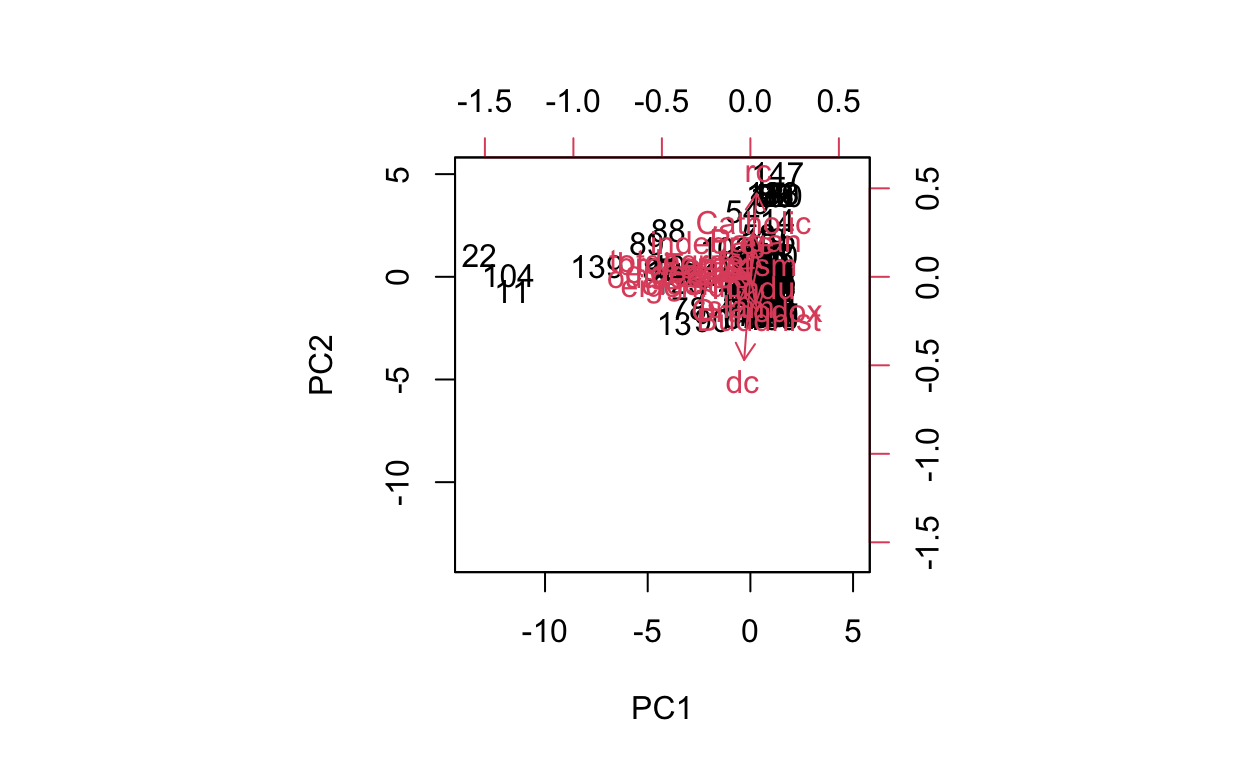
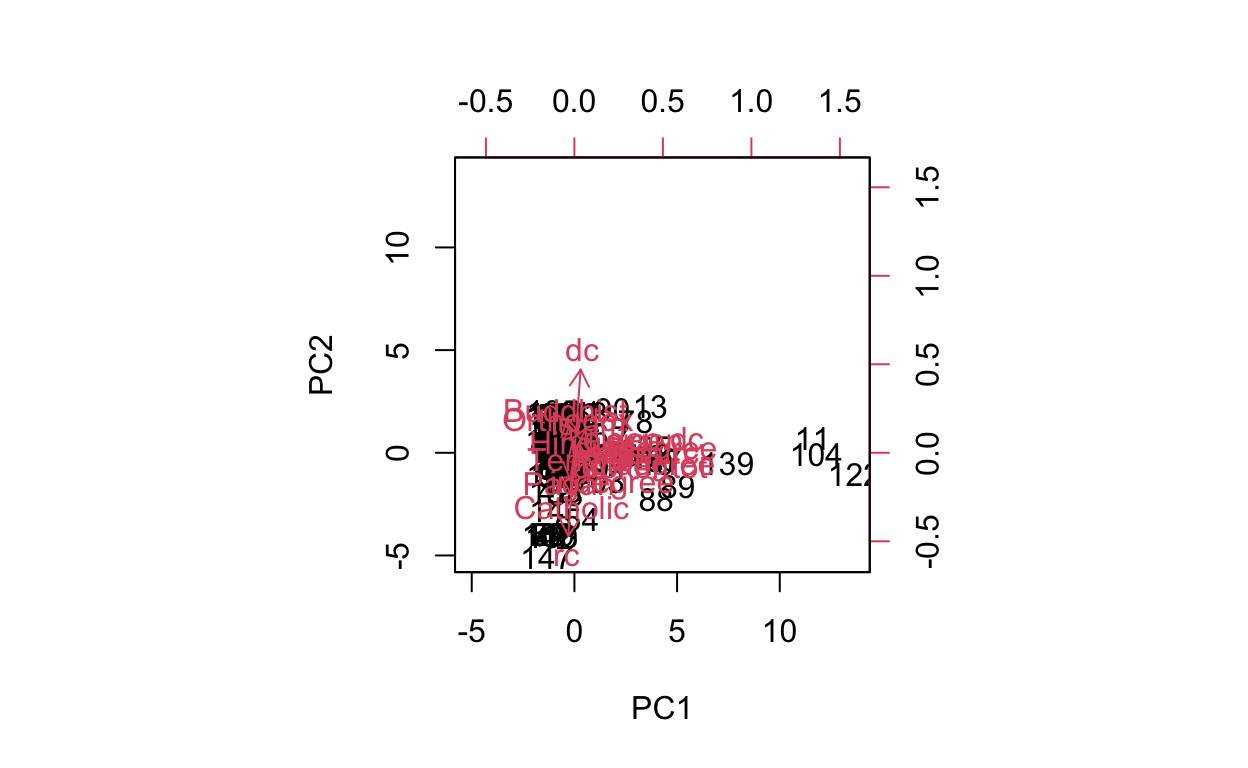
ok

diff --git a/_posts/2022-03-29-blog-post-7-networks/blog-post-7-networks.html b/_posts/2022-03-29-blog-post-7-networks/blog-post-7-networks.html
@@ -117,7 +117,7 @@ code span.wa { color: #5e5e5e; font-style: italic; } /* Warning */
   <!--/radix_placeholder_rmarkdown_metadata-->
   
   <script type="text/json" id="radix-resource-manifest">
-  {"type":"character","attributes":{},"value":["blog-post-7-networks_files/anchor-4.2.2/anchor.min.js","blog-post-7-networks_files/bowser-1.9.3/bowser.min.js","blog-post-7-networks_files/distill-2.2.21/template.v2.js","blog-post-7-networks_files/figure-html5/unnamed-chunk-107-1.png","blog-post-7-networks_files/figure-html5/unnamed-chunk-108-1.png","blog-post-7-networks_files/figure-html5/unnamed-chunk-112-1.png","blog-post-7-networks_files/figure-html5/unnamed-chunk-18-1.png","blog-post-7-networks_files/figure-html5/unnamed-chunk-19-1.png","blog-post-7-networks_files/figure-html5/unnamed-chunk-20-1.png","blog-post-7-networks_files/figure-html5/unnamed-chunk-27-1.png","blog-post-7-networks_files/figure-html5/unnamed-chunk-28-1.png","blog-post-7-networks_files/figure-html5/unnamed-chunk-29-1.png","blog-post-7-networks_files/figure-html5/unnamed-chunk-30-1.png","blog-post-7-networks_files/figure-html5/unnamed-chunk-32-1.png","blog-post-7-networks_files/figure-html5/unnamed-chunk-33-1.png","blog-post-7-networks_files/figure-html5/unnamed-chunk-34-1.png","blog-post-7-networks_files/figure-html5/unnamed-chunk-35-1.png","blog-post-7-networks_files/figure-html5/unnamed-chunk-36-1.png","blog-post-7-networks_files/figure-html5/unnamed-chunk-37-1.png","blog-post-7-networks_files/figure-html5/unnamed-chunk-38-1.png","blog-post-7-networks_files/figure-html5/unnamed-chunk-39-1.png","blog-post-7-networks_files/figure-html5/unnamed-chunk-40-1.png","blog-post-7-networks_files/figure-html5/unnamed-chunk-42-1.png","blog-post-7-networks_files/figure-html5/unnamed-chunk-43-1.png","blog-post-7-networks_files/figure-html5/unnamed-chunk-44-1.png","blog-post-7-networks_files/figure-html5/unnamed-chunk-45-1.png","blog-post-7-networks_files/figure-html5/unnamed-chunk-46-1.png","blog-post-7-networks_files/figure-html5/unnamed-chunk-47-1.png","blog-post-7-networks_files/figure-html5/unnamed-chunk-49-1.png","blog-post-7-networks_files/figure-html5/unnamed-chunk-50-1.png","blog-post-7-networks_files/figure-html5/unnamed-chunk-52-1.png","blog-post-7-networks_files/figure-html5/unnamed-chunk-53-1.png","blog-post-7-networks_files/figure-html5/unnamed-chunk-54-1.png","blog-post-7-networks_files/figure-html5/unnamed-chunk-65-1.png","blog-post-7-networks_files/figure-html5/unnamed-chunk-70-1.png","blog-post-7-networks_files/figure-html5/unnamed-chunk-71-1.png","blog-post-7-networks_files/figure-html5/unnamed-chunk-77-1.png","blog-post-7-networks_files/figure-html5/unnamed-chunk-80-1.png","blog-post-7-networks_files/figure-html5/unnamed-chunk-88-1.png","blog-post-7-networks_files/figure-html5/unnamed-chunk-89-1.png","blog-post-7-networks_files/figure-html5/unnamed-chunk-93-1.png","blog-post-7-networks_files/header-attrs-2.13/header-attrs.js","blog-post-7-networks_files/jquery-3.6.0/jquery-3.6.0.js","blog-post-7-networks_files/jquery-3.6.0/jquery-3.6.0.min.js","blog-post-7-networks_files/jquery-3.6.0/jquery-3.6.0.min.map","blog-post-7-networks_files/popper-2.6.0/popper.min.js","blog-post-7-networks_files/tippy-6.2.7/tippy-bundle.umd.min.js","blog-post-7-networks_files/tippy-6.2.7/tippy-light-border.css","blog-post-7-networks_files/tippy-6.2.7/tippy.css","blog-post-7-networks_files/tippy-6.2.7/tippy.umd.min.js","blog-post-7-networks_files/webcomponents-2.0.0/webcomponents.js"]}
+  {"type":"character","attributes":{},"value":["blog-post-7-networks_files/anchor-4.2.2/anchor.min.js","blog-post-7-networks_files/bowser-1.9.3/bowser.min.js","blog-post-7-networks_files/distill-2.2.21/template.v2.js","blog-post-7-networks_files/figure-html5/unnamed-chunk-107-1.png","blog-post-7-networks_files/figure-html5/unnamed-chunk-108-1.png","blog-post-7-networks_files/figure-html5/unnamed-chunk-109-1.png","blog-post-7-networks_files/figure-html5/unnamed-chunk-110-1.png","blog-post-7-networks_files/figure-html5/unnamed-chunk-112-1.png","blog-post-7-networks_files/figure-html5/unnamed-chunk-114-1.png","blog-post-7-networks_files/figure-html5/unnamed-chunk-18-1.png","blog-post-7-networks_files/figure-html5/unnamed-chunk-19-1.png","blog-post-7-networks_files/figure-html5/unnamed-chunk-20-1.png","blog-post-7-networks_files/figure-html5/unnamed-chunk-27-1.png","blog-post-7-networks_files/figure-html5/unnamed-chunk-28-1.png","blog-post-7-networks_files/figure-html5/unnamed-chunk-29-1.png","blog-post-7-networks_files/figure-html5/unnamed-chunk-30-1.png","blog-post-7-networks_files/figure-html5/unnamed-chunk-32-1.png","blog-post-7-networks_files/figure-html5/unnamed-chunk-33-1.png","blog-post-7-networks_files/figure-html5/unnamed-chunk-34-1.png","blog-post-7-networks_files/figure-html5/unnamed-chunk-35-1.png","blog-post-7-networks_files/figure-html5/unnamed-chunk-36-1.png","blog-post-7-networks_files/figure-html5/unnamed-chunk-37-1.png","blog-post-7-networks_files/figure-html5/unnamed-chunk-38-1.png","blog-post-7-networks_files/figure-html5/unnamed-chunk-39-1.png","blog-post-7-networks_files/figure-html5/unnamed-chunk-40-1.png","blog-post-7-networks_files/figure-html5/unnamed-chunk-42-1.png","blog-post-7-networks_files/figure-html5/unnamed-chunk-43-1.png","blog-post-7-networks_files/figure-html5/unnamed-chunk-44-1.png","blog-post-7-networks_files/figure-html5/unnamed-chunk-45-1.png","blog-post-7-networks_files/figure-html5/unnamed-chunk-46-1.png","blog-post-7-networks_files/figure-html5/unnamed-chunk-47-1.png","blog-post-7-networks_files/figure-html5/unnamed-chunk-49-1.png","blog-post-7-networks_files/figure-html5/unnamed-chunk-50-1.png","blog-post-7-networks_files/figure-html5/unnamed-chunk-52-1.png","blog-post-7-networks_files/figure-html5/unnamed-chunk-53-1.png","blog-post-7-networks_files/figure-html5/unnamed-chunk-54-1.png","blog-post-7-networks_files/figure-html5/unnamed-chunk-65-1.png","blog-post-7-networks_files/figure-html5/unnamed-chunk-70-1.png","blog-post-7-networks_files/figure-html5/unnamed-chunk-71-1.png","blog-post-7-networks_files/figure-html5/unnamed-chunk-77-1.png","blog-post-7-networks_files/figure-html5/unnamed-chunk-80-1.png","blog-post-7-networks_files/figure-html5/unnamed-chunk-88-1.png","blog-post-7-networks_files/figure-html5/unnamed-chunk-89-1.png","blog-post-7-networks_files/figure-html5/unnamed-chunk-90-1.png","blog-post-7-networks_files/figure-html5/unnamed-chunk-93-1.png","blog-post-7-networks_files/figure-html5/unnamed-chunk-94-1.png","blog-post-7-networks_files/header-attrs-2.13/header-attrs.js","blog-post-7-networks_files/jquery-3.6.0/jquery-3.6.0.js","blog-post-7-networks_files/jquery-3.6.0/jquery-3.6.0.min.js","blog-post-7-networks_files/jquery-3.6.0/jquery-3.6.0.min.map","blog-post-7-networks_files/popper-2.6.0/popper.min.js","blog-post-7-networks_files/tippy-6.2.7/tippy-bundle.umd.min.js","blog-post-7-networks_files/tippy-6.2.7/tippy-light-border.css","blog-post-7-networks_files/tippy-6.2.7/tippy.css","blog-post-7-networks_files/tippy-6.2.7/tippy.umd.min.js","blog-post-7-networks_files/webcomponents-2.0.0/webcomponents.js","images/C6569E05-82CC-4F93-B1E5-1A9DC2801E8E_4_5005_c.jpeg"]}
   </script>
   <!--radix_placeholder_navigation_in_header-->
   <!--/radix_placeholder_navigation_in_header-->
@@ -2924,6 +2924,15 @@ Learning, Regression and Principle Components:</h3>
 </div>
 <div class="layout-chunk" data-layout="l-body">
 <div class="sourceCode">
+<pre class="sourceCode r"><code class="sourceCode r"><span class='fu'><a href='https://rdrr.io/r/base/Random.html'>set.seed</a></span><span class='op'>(</span><span class='fl'>172</span><span class='op'>)</span>
+
+<span class='fu'>ggbiplot</span><span class='op'>(</span><span class='va'>pr.out</span>, labels <span class='op'>=</span>  <span class='va'>total_1000s_for_PCA</span><span class='op'>$</span><span class='va'>name</span>, labels.size  <span class='op'>=</span><span class='fl'>1.5</span><span class='op'>)</span>
+</code></pre>
+</div>
+<p><img src="blog-post-7-networks_files/figure-html5/unnamed-chunk-89-1.png" width="624" /></p>
+</div>
+<div class="layout-chunk" data-layout="l-body">
+<div class="sourceCode">
 <pre class="sourceCode r"><code class="sourceCode r"><span class='va'>pr.out</span><span class='op'>$</span><span class='va'>rotation</span> <span class='op'>=</span> <span class='op'>-</span><span class='va'>pr.out</span><span class='op'>$</span><span class='va'>rotation</span> 
 
 <span class='va'>pr.out</span><span class='op'>$</span><span class='va'>x</span> <span class='op'>=</span> <span class='op'>-</span><span class='va'>pr.out</span><span class='op'>$</span><span class='va'>x</span>
@@ -2931,7 +2940,7 @@ Learning, Regression and Principle Components:</h3>
 <span class='fu'><a href='https://rdrr.io/r/stats/biplot.html'>biplot</a></span><span class='op'>(</span><span class='va'>pr.out</span>, scale <span class='op'>=</span> <span class='fl'>0</span><span class='op'>)</span>
 </code></pre>
 </div>
-<p><img src="blog-post-7-networks_files/figure-html5/unnamed-chunk-89-1.png" width="624" /></p>
+<p><img src="blog-post-7-networks_files/figure-html5/unnamed-chunk-90-1.png" width="624" /></p>
 </div>
 <div class="layout-chunk" data-layout="l-body">
 <div class="sourceCode">
@@ -2978,7 +2987,7 @@ type <span class='op'>=</span> <span class='st'>"b"</span><span class='op'>)</sp
 ylab <span class='op'>=</span> <span class='st'>"Cumulative Proportion of Variance Explained"</span>, ylim <span class='op'>=</span> <span class='fu'><a href='https://rdrr.io/r/base/c.html'>c</a></span><span class='op'>(</span><span class='fl'>0</span>, <span class='fl'>1</span><span class='op'>)</span>, type <span class='op'>=</span> <span class='st'>"b"</span><span class='op'>)</span>
 </code></pre>
 </div>
-<p><img src="blog-post-7-networks_files/figure-html5/unnamed-chunk-93-1.png" width="624" /></p>
+<p><img src="blog-post-7-networks_files/figure-html5/unnamed-chunk-94-1.png" width="624" /></p>
 </div>
 <div class="layout-chunk" data-layout="l-body">
 <div class="sourceCode">
@@ -3106,7 +3115,7 @@ ylab <span class='op'>=</span> <span class='st'>"Cumulative Proportion of Varian
 <pre class="sourceCode r"><code class="sourceCode r"><span class='fu'><a href='https://rdrr.io/r/stats/biplot.html'>biplot</a></span><span class='op'>(</span><span class='va'>pr.out_2</span>, scale <span class='op'>=</span> <span class='fl'>0</span><span class='op'>)</span>
 </code></pre>
 </div>
-<p><img src="blog-post-7-networks_files/figure-html5/unnamed-chunk-107-1.png" width="624" /></p>
+<p><img src="blog-post-7-networks_files/figure-html5/unnamed-chunk-108-1.png" width="624" /></p>
 </div>
 <div class="layout-chunk" data-layout="l-body">
 <div class="sourceCode">
@@ -3117,7 +3126,16 @@ ylab <span class='op'>=</span> <span class='st'>"Cumulative Proportion of Varian
 <span class='fu'><a href='https://rdrr.io/r/stats/biplot.html'>biplot</a></span><span class='op'>(</span><span class='va'>pr.out_2</span>, scale <span class='op'>=</span> <span class='fl'>0</span><span class='op'>)</span>
 </code></pre>
 </div>
-<p><img src="blog-post-7-networks_files/figure-html5/unnamed-chunk-108-1.png" width="624" /></p>
+<p><img src="blog-post-7-networks_files/figure-html5/unnamed-chunk-109-1.png" width="624" /></p>
+</div>
+<div class="layout-chunk" data-layout="l-body">
+<div class="sourceCode">
+<pre class="sourceCode r"><code class="sourceCode r"><span class='fu'><a href='https://rdrr.io/r/base/Random.html'>set.seed</a></span><span class='op'>(</span><span class='fl'>8192</span><span class='op'>)</span>
+
+<span class='fu'>ggbiplot</span><span class='op'>(</span><span class='va'>pr.out_2</span>, labels <span class='op'>=</span>  <span class='va'>total_1200s_for_PCA</span><span class='op'>$</span><span class='va'>name</span>, labels.size  <span class='op'>=</span><span class='fl'>1.5</span><span class='op'>)</span>
+</code></pre>
+</div>
+<p><img src="blog-post-7-networks_files/figure-html5/unnamed-chunk-110-1.png" width="624" /></p>
 </div>
 <div class="layout-chunk" data-layout="l-body">
 <div class="sourceCode">
@@ -3164,7 +3182,7 @@ type <span class='op'>=</span> <span class='st'>"b"</span><span class='op'>)</sp
 ylab <span class='op'>=</span> <span class='st'>"Cumulative Proportion of Variance Explained"</span>, ylim <span class='op'>=</span> <span class='fu'><a href='https://rdrr.io/r/base/c.html'>c</a></span><span class='op'>(</span><span class='fl'>0</span>, <span class='fl'>1</span><span class='op'>)</span>, type <span class='op'>=</span> <span class='st'>"b"</span><span class='op'>)</span>
 </code></pre>
 </div>
-<p><img src="blog-post-7-networks_files/figure-html5/unnamed-chunk-112-1.png" width="624" /></p>
+<p><img src="blog-post-7-networks_files/figure-html5/unnamed-chunk-114-1.png" width="624" /></p>
 </div>
 <p>(information regarding the meaning of each type of brokerage was
 acquired from <a href="https://edis.ifas.ufl.edu/publication/WC197"

diff --git a/docs/posts/2022-03-29-blog-post-7-networks/index.html b/docs/posts/2022-03-29-blog-post-7-networks/index.html
@@ -118,7 +118,7 @@ code span.wa { color: #5e5e5e; font-style: italic; } /* Warning */
 <!--/radix_placeholder_rmarkdown_metadata-->
   
   <script type="text/json" id="radix-resource-manifest">
-  {"type":"character","attributes":{},"value":["blog-post-7-networks_files/anchor-4.2.2/anchor.min.js","blog-post-7-networks_files/bowser-1.9.3/bowser.min.js","blog-post-7-networks_files/distill-2.2.21/template.v2.js","blog-post-7-networks_files/figure-html5/unnamed-chunk-107-1.png","blog-post-7-networks_files/figure-html5/unnamed-chunk-108-1.png","blog-post-7-networks_files/figure-html5/unnamed-chunk-112-1.png","blog-post-7-networks_files/figure-html5/unnamed-chunk-18-1.png","blog-post-7-networks_files/figure-html5/unnamed-chunk-19-1.png","blog-post-7-networks_files/figure-html5/unnamed-chunk-20-1.png","blog-post-7-networks_files/figure-html5/unnamed-chunk-27-1.png","blog-post-7-networks_files/figure-html5/unnamed-chunk-28-1.png","blog-post-7-networks_files/figure-html5/unnamed-chunk-29-1.png","blog-post-7-networks_files/figure-html5/unnamed-chunk-30-1.png","blog-post-7-networks_files/figure-html5/unnamed-chunk-32-1.png","blog-post-7-networks_files/figure-html5/unnamed-chunk-33-1.png","blog-post-7-networks_files/figure-html5/unnamed-chunk-34-1.png","blog-post-7-networks_files/figure-html5/unnamed-chunk-35-1.png","blog-post-7-networks_files/figure-html5/unnamed-chunk-36-1.png","blog-post-7-networks_files/figure-html5/unnamed-chunk-37-1.png","blog-post-7-networks_files/figure-html5/unnamed-chunk-38-1.png","blog-post-7-networks_files/figure-html5/unnamed-chunk-39-1.png","blog-post-7-networks_files/figure-html5/unnamed-chunk-40-1.png","blog-post-7-networks_files/figure-html5/unnamed-chunk-42-1.png","blog-post-7-networks_files/figure-html5/unnamed-chunk-43-1.png","blog-post-7-networks_files/figure-html5/unnamed-chunk-44-1.png","blog-post-7-networks_files/figure-html5/unnamed-chunk-45-1.png","blog-post-7-networks_files/figure-html5/unnamed-chunk-46-1.png","blog-post-7-networks_files/figure-html5/unnamed-chunk-47-1.png","blog-post-7-networks_files/figure-html5/unnamed-chunk-49-1.png","blog-post-7-networks_files/figure-html5/unnamed-chunk-50-1.png","blog-post-7-networks_files/figure-html5/unnamed-chunk-52-1.png","blog-post-7-networks_files/figure-html5/unnamed-chunk-53-1.png","blog-post-7-networks_files/figure-html5/unnamed-chunk-54-1.png","blog-post-7-networks_files/figure-html5/unnamed-chunk-65-1.png","blog-post-7-networks_files/figure-html5/unnamed-chunk-70-1.png","blog-post-7-networks_files/figure-html5/unnamed-chunk-71-1.png","blog-post-7-networks_files/figure-html5/unnamed-chunk-77-1.png","blog-post-7-networks_files/figure-html5/unnamed-chunk-80-1.png","blog-post-7-networks_files/figure-html5/unnamed-chunk-88-1.png","blog-post-7-networks_files/figure-html5/unnamed-chunk-89-1.png","blog-post-7-networks_files/figure-html5/unnamed-chunk-93-1.png","blog-post-7-networks_files/header-attrs-2.13/header-attrs.js","blog-post-7-networks_files/jquery-3.6.0/jquery-3.6.0.js","blog-post-7-networks_files/jquery-3.6.0/jquery-3.6.0.min.js","blog-post-7-networks_files/jquery-3.6.0/jquery-3.6.0.min.map","blog-post-7-networks_files/popper-2.6.0/popper.min.js","blog-post-7-networks_files/tippy-6.2.7/tippy-bundle.umd.min.js","blog-post-7-networks_files/tippy-6.2.7/tippy-light-border.css","blog-post-7-networks_files/tippy-6.2.7/tippy.css","blog-post-7-networks_files/tippy-6.2.7/tippy.umd.min.js","blog-post-7-networks_files/webcomponents-2.0.0/webcomponents.js"]}
+  {"type":"character","attributes":{},"value":["blog-post-7-networks_files/anchor-4.2.2/anchor.min.js","blog-post-7-networks_files/bowser-1.9.3/bowser.min.js","blog-post-7-networks_files/distill-2.2.21/template.v2.js","blog-post-7-networks_files/figure-html5/unnamed-chunk-107-1.png","blog-post-7-networks_files/figure-html5/unnamed-chunk-108-1.png","blog-post-7-networks_files/figure-html5/unnamed-chunk-109-1.png","blog-post-7-networks_files/figure-html5/unnamed-chunk-110-1.png","blog-post-7-networks_files/figure-html5/unnamed-chunk-112-1.png","blog-post-7-networks_files/figure-html5/unnamed-chunk-114-1.png","blog-post-7-networks_files/figure-html5/unnamed-chunk-18-1.png","blog-post-7-networks_files/figure-html5/unnamed-chunk-19-1.png","blog-post-7-networks_files/figure-html5/unnamed-chunk-20-1.png","blog-post-7-networks_files/figure-html5/unnamed-chunk-27-1.png","blog-post-7-networks_files/figure-html5/unnamed-chunk-28-1.png","blog-post-7-networks_files/figure-html5/unnamed-chunk-29-1.png","blog-post-7-networks_files/figure-html5/unnamed-chunk-30-1.png","blog-post-7-networks_files/figure-html5/unnamed-chunk-32-1.png","blog-post-7-networks_files/figure-html5/unnamed-chunk-33-1.png","blog-post-7-networks_files/figure-html5/unnamed-chunk-34-1.png","blog-post-7-networks_files/figure-html5/unnamed-chunk-35-1.png","blog-post-7-networks_files/figure-html5/unnamed-chunk-36-1.png","blog-post-7-networks_files/figure-html5/unnamed-chunk-37-1.png","blog-post-7-networks_files/figure-html5/unnamed-chunk-38-1.png","blog-post-7-networks_files/figure-html5/unnamed-chunk-39-1.png","blog-post-7-networks_files/figure-html5/unnamed-chunk-40-1.png","blog-post-7-networks_files/figure-html5/unnamed-chunk-42-1.png","blog-post-7-networks_files/figure-html5/unnamed-chunk-43-1.png","blog-post-7-networks_files/figure-html5/unnamed-chunk-44-1.png","blog-post-7-networks_files/figure-html5/unnamed-chunk-45-1.png","blog-post-7-networks_files/figure-html5/unnamed-chunk-46-1.png","blog-post-7-networks_files/figure-html5/unnamed-chunk-47-1.png","blog-post-7-networks_files/figure-html5/unnamed-chunk-49-1.png","blog-post-7-networks_files/figure-html5/unnamed-chunk-50-1.png","blog-post-7-networks_files/figure-html5/unnamed-chunk-52-1.png","blog-post-7-networks_files/figure-html5/unnamed-chunk-53-1.png","blog-post-7-networks_files/figure-html5/unnamed-chunk-54-1.png","blog-post-7-networks_files/figure-html5/unnamed-chunk-65-1.png","blog-post-7-networks_files/figure-html5/unnamed-chunk-70-1.png","blog-post-7-networks_files/figure-html5/unnamed-chunk-71-1.png","blog-post-7-networks_files/figure-html5/unnamed-chunk-77-1.png","blog-post-7-networks_files/figure-html5/unnamed-chunk-80-1.png","blog-post-7-networks_files/figure-html5/unnamed-chunk-88-1.png","blog-post-7-networks_files/figure-html5/unnamed-chunk-89-1.png","blog-post-7-networks_files/figure-html5/unnamed-chunk-90-1.png","blog-post-7-networks_files/figure-html5/unnamed-chunk-93-1.png","blog-post-7-networks_files/figure-html5/unnamed-chunk-94-1.png","blog-post-7-networks_files/header-attrs-2.13/header-attrs.js","blog-post-7-networks_files/jquery-3.6.0/jquery-3.6.0.js","blog-post-7-networks_files/jquery-3.6.0/jquery-3.6.0.min.js","blog-post-7-networks_files/jquery-3.6.0/jquery-3.6.0.min.map","blog-post-7-networks_files/popper-2.6.0/popper.min.js","blog-post-7-networks_files/tippy-6.2.7/tippy-bundle.umd.min.js","blog-post-7-networks_files/tippy-6.2.7/tippy-light-border.css","blog-post-7-networks_files/tippy-6.2.7/tippy.css","blog-post-7-networks_files/tippy-6.2.7/tippy.umd.min.js","blog-post-7-networks_files/webcomponents-2.0.0/webcomponents.js","images/C6569E05-82CC-4F93-B1E5-1A9DC2801E8E_4_5005_c.jpeg"]}
   </script>
   <!--radix_placeholder_navigation_in_header-->
 <meta name="distill:offset" content="../.."/>
@@ -3544,6 +3544,15 @@ Learning, Regression and Principle Components:</h3>
 </div>
 <div class="layout-chunk" data-layout="l-body">
 <div class="sourceCode">
+<pre class="sourceCode r"><code class="sourceCode r"><span class='fu'><a href='https://rdrr.io/r/base/Random.html'>set.seed</a></span><span class='op'>(</span><span class='fl'>172</span><span class='op'>)</span>
+
+<span class='fu'>ggbiplot</span><span class='op'>(</span><span class='va'>pr.out</span>, labels <span class='op'>=</span>  <span class='va'>total_1000s_for_PCA</span><span class='op'>$</span><span class='va'>name</span>, labels.size  <span class='op'>=</span><span class='fl'>1.5</span><span class='op'>)</span>
+</code></pre>
+</div>
+<p><img src="blog-post-7-networks_files/figure-html5/unnamed-chunk-89-1.png" width="624" /></p>
+</div>
+<div class="layout-chunk" data-layout="l-body">
+<div class="sourceCode">
 <pre class="sourceCode r"><code class="sourceCode r"><span class='va'>pr.out</span><span class='op'>$</span><span class='va'>rotation</span> <span class='op'>=</span> <span class='op'>-</span><span class='va'>pr.out</span><span class='op'>$</span><span class='va'>rotation</span> 
 
 <span class='va'>pr.out</span><span class='op'>$</span><span class='va'>x</span> <span class='op'>=</span> <span class='op'>-</span><span class='va'>pr.out</span><span class='op'>$</span><span class='va'>x</span>
@@ -3551,7 +3560,7 @@ Learning, Regression and Principle Components:</h3>
 <span class='fu'><a href='https://rdrr.io/r/stats/biplot.html'>biplot</a></span><span class='op'>(</span><span class='va'>pr.out</span>, scale <span class='op'>=</span> <span class='fl'>0</span><span class='op'>)</span>
 </code></pre>
 </div>
-<p><img src="blog-post-7-networks_files/figure-html5/unnamed-chunk-89-1.png" width="624" /></p>
+<p><img src="blog-post-7-networks_files/figure-html5/unnamed-chunk-90-1.png" width="624" /></p>
 </div>
 <div class="layout-chunk" data-layout="l-body">
 <div class="sourceCode">
@@ -3598,7 +3607,7 @@ type <span class='op'>=</span> <span class='st'>"b"</span><span class='op'>)</sp
 ylab <span class='op'>=</span> <span class='st'>"Cumulative Proportion of Variance Explained"</span>, ylim <span class='op'>=</span> <span class='fu'><a href='https://rdrr.io/r/base/c.html'>c</a></span><span class='op'>(</span><span class='fl'>0</span>, <span class='fl'>1</span><span class='op'>)</span>, type <span class='op'>=</span> <span class='st'>"b"</span><span class='op'>)</span>
 </code></pre>
 </div>
-<p><img src="blog-post-7-networks_files/figure-html5/unnamed-chunk-93-1.png" width="624" /></p>
+<p><img src="blog-post-7-networks_files/figure-html5/unnamed-chunk-94-1.png" width="624" /></p>
 </div>
 <div class="layout-chunk" data-layout="l-body">
 <div class="sourceCode">
@@ -3726,7 +3735,7 @@ ylab <span class='op'>=</span> <span class='st'>"Cumulative Proportion of Varian
 <pre class="sourceCode r"><code class="sourceCode r"><span class='fu'><a href='https://rdrr.io/r/stats/biplot.html'>biplot</a></span><span class='op'>(</span><span class='va'>pr.out_2</span>, scale <span class='op'>=</span> <span class='fl'>0</span><span class='op'>)</span>
 </code></pre>
 </div>
-<p><img src="blog-post-7-networks_files/figure-html5/unnamed-chunk-107-1.png" width="624" /></p>
+<p><img src="blog-post-7-networks_files/figure-html5/unnamed-chunk-108-1.png" width="624" /></p>
 </div>
 <div class="layout-chunk" data-layout="l-body">
 <div class="sourceCode">
@@ -3737,7 +3746,16 @@ ylab <span class='op'>=</span> <span class='st'>"Cumulative Proportion of Varian
 <span class='fu'><a href='https://rdrr.io/r/stats/biplot.html'>biplot</a></span><span class='op'>(</span><span class='va'>pr.out_2</span>, scale <span class='op'>=</span> <span class='fl'>0</span><span class='op'>)</span>
 </code></pre>
 </div>
-<p><img src="blog-post-7-networks_files/figure-html5/unnamed-chunk-108-1.png" width="624" /></p>
+<p><img src="blog-post-7-networks_files/figure-html5/unnamed-chunk-109-1.png" width="624" /></p>
+</div>
+<div class="layout-chunk" data-layout="l-body">
+<div class="sourceCode">
+<pre class="sourceCode r"><code class="sourceCode r"><span class='fu'><a href='https://rdrr.io/r/base/Random.html'>set.seed</a></span><span class='op'>(</span><span class='fl'>8192</span><span class='op'>)</span>
+
+<span class='fu'>ggbiplot</span><span class='op'>(</span><span class='va'>pr.out_2</span>, labels <span class='op'>=</span>  <span class='va'>total_1200s_for_PCA</span><span class='op'>$</span><span class='va'>name</span>, labels.size  <span class='op'>=</span><span class='fl'>1.5</span><span class='op'>)</span>
+</code></pre>
+</div>
+<p><img src="blog-post-7-networks_files/figure-html5/unnamed-chunk-110-1.png" width="624" /></p>
 </div>
 <div class="layout-chunk" data-layout="l-body">
 <div class="sourceCode">
@@ -3784,7 +3802,7 @@ type <span class='op'>=</span> <span class='st'>"b"</span><span class='op'>)</sp
 ylab <span class='op'>=</span> <span class='st'>"Cumulative Proportion of Variance Explained"</span>, ylim <span class='op'>=</span> <span class='fu'><a href='https://rdrr.io/r/base/c.html'>c</a></span><span class='op'>(</span><span class='fl'>0</span>, <span class='fl'>1</span><span class='op'>)</span>, type <span class='op'>=</span> <span class='st'>"b"</span><span class='op'>)</span>
 </code></pre>
 </div>
-<p><img src="blog-post-7-networks_files/figure-html5/unnamed-chunk-112-1.png" width="624" /></p>
+<p><img src="blog-post-7-networks_files/figure-html5/unnamed-chunk-114-1.png" width="624" /></p>
 </div>
 <p>(information regarding the meaning of each type of brokerage was
 acquired from <a href="https://edis.ifas.ufl.edu/publication/WC197"
